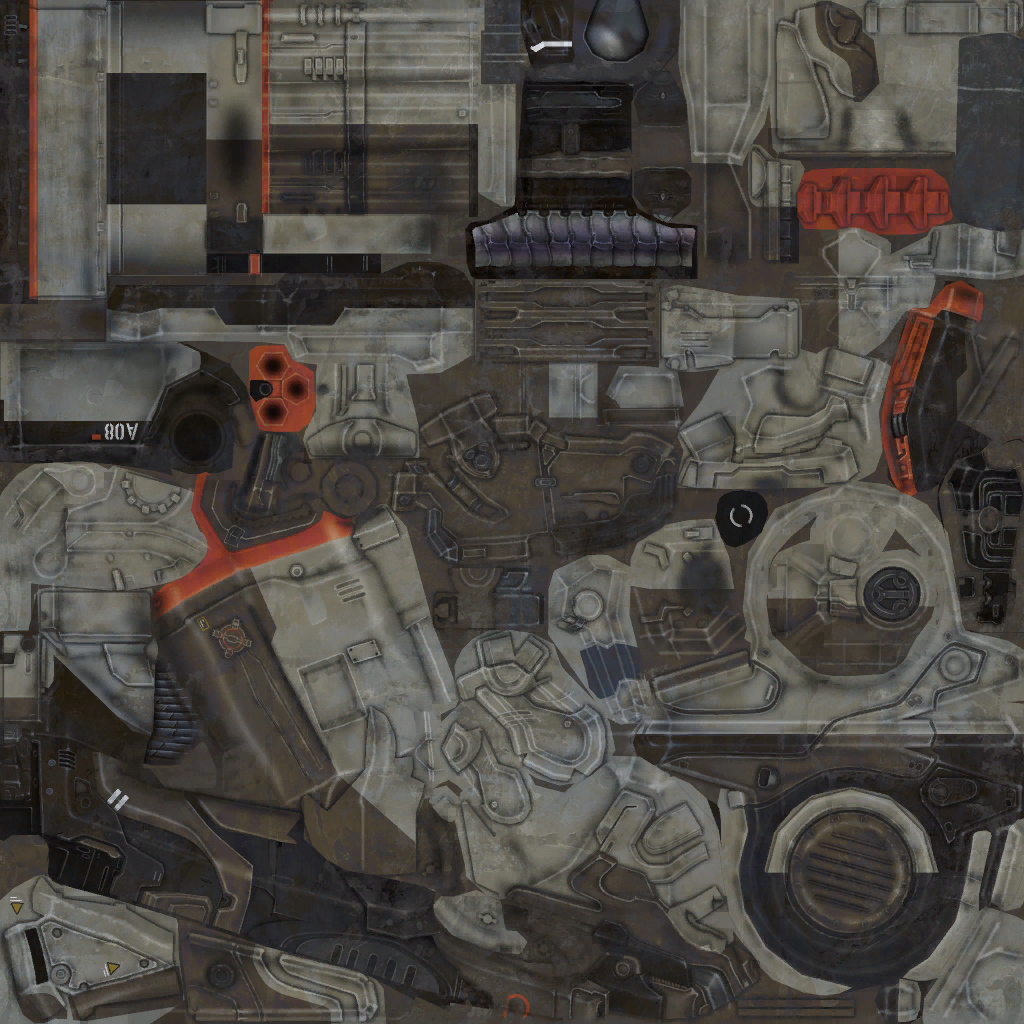
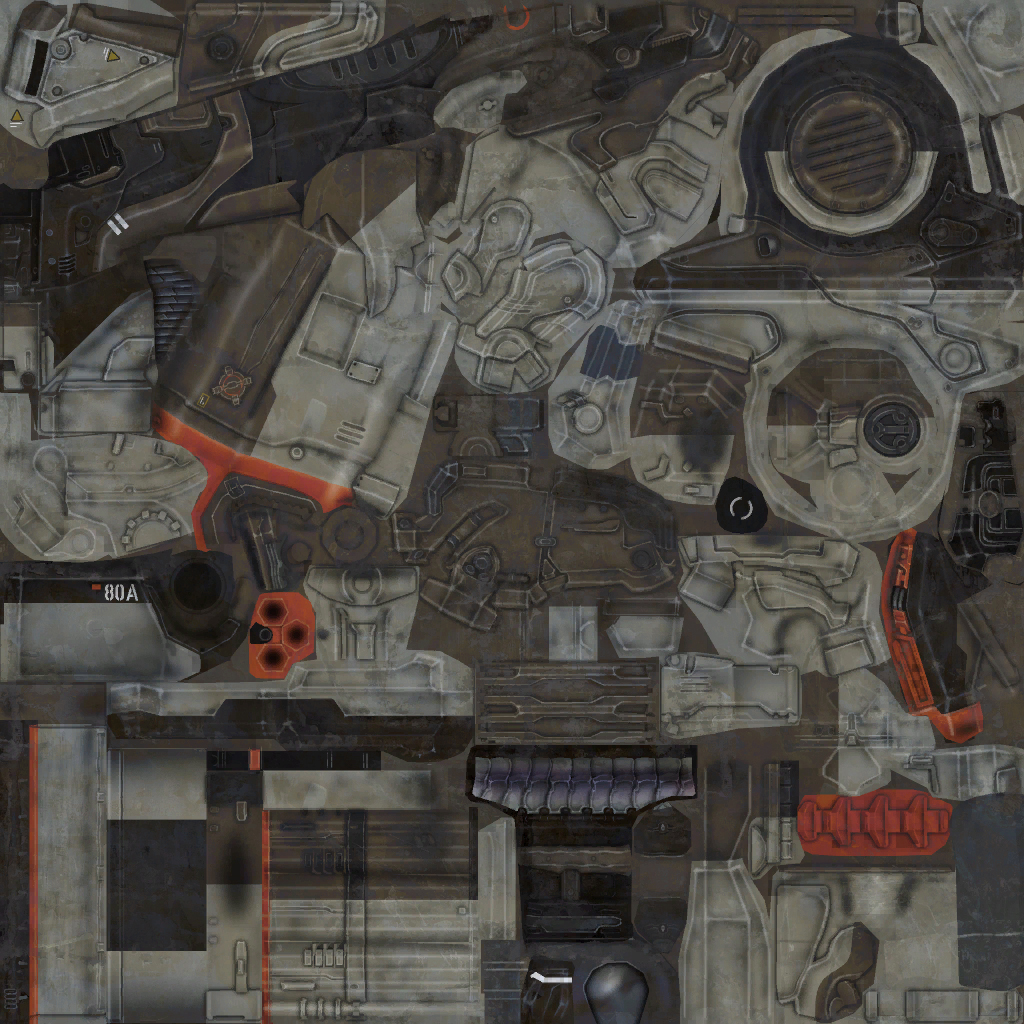
增加uv方向判断

diff --git a/Engine/Engine/DTextureRes10.cpp b/Engine/Engine/DTextureRes10.cpp
@@ -20,6 +20,74 @@ DTextureRes10::DTextureRes10(ID3D10Device * device, WCHAR * filename)
 	m_isSuccess = true;
 }
 
+DTextureRes10::DTextureRes10(ID3D10Device * device, DTextureRes10 * right, DTextureRes10 * left, DTextureRes10 * top, DTextureRes10 * bottom, DTextureRes10 * front, DTextureRes10 * back)
+{
+	m_device = device;
+
+	m_isSuccess = false;
+
+	ID3D10Resource* srcTex[6];
+
+	right->m_texture->GetResource(&srcTex[1]);
+	left->m_texture->GetResource(&srcTex[0]);
+	top->m_texture->GetResource(&srcTex[2]);
+	bottom->m_texture->GetResource(&srcTex[3]);
+	front->m_texture->GetResource(&srcTex[4]);
+	back->m_texture->GetResource(&srcTex[5]);
+
+
+	D3D10_TEXTURE2D_DESC texElementDesc;
+	((ID3D10Texture2D*)srcTex[0])->GetDesc(&texElementDesc);
+
+	D3D10_TEXTURE2D_DESC texArrayDesc;
+	texArrayDesc.Width = texElementDesc.Width;
+	texArrayDesc.Height = texElementDesc.Height;
+	texArrayDesc.MipLevels = texElementDesc.MipLevels;
+	texArrayDesc.ArraySize = 6;
+	texArrayDesc.Format = texElementDesc.Format;
+	texArrayDesc.SampleDesc.Count = 1;
+	texArrayDesc.SampleDesc.Quality = 0;
+	texArrayDesc.Usage = D3D10_USAGE_DEFAULT;
+	texArrayDesc.BindFlags = D3D10_BIND_SHADER_RESOURCE;
+	texArrayDesc.CPUAccessFlags = 0;
+	texArrayDesc.MiscFlags = D3D10_RESOURCE_MISC_TEXTURECUBE;
+
+	ID3D10Texture2D* texArray = 0;
+	if (FAILED(device->CreateTexture2D(&texArrayDesc, 0, &texArray)))
+		return;
+
+	D3D10_BOX sourceRegion;
+
+	for (UINT x = 0; x < 6; x++)
+	{
+		for (UINT mipLevel = 0; mipLevel < texArrayDesc.MipLevels; mipLevel++)
+		{
+			sourceRegion.left = 0;
+			sourceRegion.right = (texArrayDesc.Width >> mipLevel);
+			sourceRegion.top = 0;
+			sourceRegion.bottom = (texArrayDesc.Height >> mipLevel);
+			sourceRegion.front = 0;
+			sourceRegion.back = 1;
+
+			if (sourceRegion.bottom == 0 || sourceRegion.right == 0)
+				break;
+
+			m_device->CopySubresourceRegion(texArray, D3D10CalcSubresource(mipLevel, x, texArrayDesc.MipLevels), 0, 0, 0, srcTex[x], mipLevel, &sourceRegion);
+		}
+	}
+
+	D3D10_SHADER_RESOURCE_VIEW_DESC viewDesc;
+	viewDesc.Format = texArrayDesc.Format;
+	viewDesc.ViewDimension = D3D11_SRV_DIMENSION_TEXTURECUBE;
+	viewDesc.TextureCube.MostDetailedMip = 0;
+	viewDesc.TextureCube.MipLevels = texArrayDesc.MipLevels;
+
+	if (FAILED(device->CreateShaderResourceView(texArray, &viewDesc, &m_texture)))
+		return;
+
+	m_isSuccess = true;
+}
+
 DTextureRes10::~DTextureRes10()
 {
 }

diff --git a/Engine/Engine/DLight.cpp b/Engine/Engine/DLight.cpp
@@ -201,7 +201,7 @@ void DLight::BeginRenderShadow()
 		m_transform->GetPosition(position);
 		m_transform->GetForward(lookAt);
 
-		DShader::SetGlobalVector3(D_LIGHT_DIR, lookAt);
+		DShader::SetGlobalVector3(D_SC_LIGHT_DIR, lookAt);
 
 		lookAt = position + lookAt;
 
@@ -221,7 +221,7 @@ void DLight::BeginRenderShadow()
 	DGraphics::GlMultiMatrix(m_view);
 	DGraphics::GlLoadProjectionMatrix(m_proj);
 
-	DShader::SetGlobalVector4(D_PARAMS_SHADOW, DVector4(1.0f, 0.0f, m_far, 1.0f / m_far));
+	DShader::SetGlobalVector4(D_SC_PARAMS_SHADOW, DVector4(1.0f, 0.0f, m_far, 1.0f / m_far));
 
 	DGraphics::BeginScene(true, false, true, DColor(1,1,1,1.0f), m_shadowMap);
 }
@@ -231,9 +231,9 @@ void DLight::EndRenderShadow()
 	DGraphics::EndScene(m_shadowMap);
 	DGraphics::GlPopMatrix();
 
-	DShader::SetGlobalTexture(D_TEXTURE_SHADOW, m_shadowMap);
-	DShader::SetGlobalMatrix(D_MATRIX_SHADOW_V, m_view);
-	DShader::SetGlobalMatrix(D_MATRIX_SHADOW_P, m_proj);
+	DShader::SetGlobalTexture(D_SC_TEXTURE_SHADOW, m_shadowMap);
+	DShader::SetGlobalMatrix(D_SC_MATRIX_SHADOW_V, m_view);
+	DShader::SetGlobalMatrix(D_SC_MATRIX_SHADOW_P, m_proj);
 }
 
 //void DLight::GetCameraBounds(DCamera * cam, DVector3 * outCenter, DVector3 * outSize)

diff --git a/Engine/Engine/DShaderConstant.h b/Engine/Engine/DShaderConstant.h
@@ -1,17 +1,19 @@
-#pragma once
+#pragma once
 
-#define D_MATRIX_M         "g_engineWorldMatrix"
-#define D_MATRIX_V         "g_engineViewMatrix"
-#define D_MATRIX_P         "g_engineProjectionMatrix"
+#define D_SC_MATRIX_M         "g_engineWorldMatrix"
+#define D_SC_MATRIX_V         "g_engineViewMatrix"
+#define D_SC_MATRIX_P         "g_engineProjectionMatrix"
 
-#define D_MATRIX_SHADOW_V  "g_shadowView"
-#define D_MATRIX_SHADOW_P  "g_shadowProj"
-#define D_PARAMS_SHADOW    "g_shadowParams"
+#define D_SC_MATRIX_SHADOW_V  "g_engineShadowView"
+#define D_SC_MATRIX_SHADOW_P  "g_engineShadowProj"
+#define D_SC_PARAMS_SHADOW    "g_engineShadowParams"
 
-#define D_LIGHT_DIR        "g_engineLightDir"
-#define D_LIGHT_COLOR      "g_engineLightColor"
-#define D_CAMERA_POS       "g_engineCameraPos"
+#define D_SC_LIGHT_DIR        "g_engineLightDir"
+#define D_SC_LIGHT_COLOR      "g_engineLightColor"
+#define D_SC_CAMERA_POS       "g_engineCameraPos"
 
-#define D_TEXTURE_SHADOW   "g_shadowMap"
+#define D_SC_TEXTURE_SHADOW   "g_shadowMap"
 
-#define D_TEXTURE_SCREEN   "screenTexture"
+#define D_SC_TIME             "g_engineTime"
+
+#define D_SC_TEXTURE_SCREEN   "screenTexture"

diff --git a/Engine/Engine/DGraphics.cpp b/Engine/Engine/DGraphics.cpp
@@ -288,9 +288,9 @@ void DGraphics::DrawGeometry(DGeometry * geometry, const DMatrix4x4 & matrix, DM
 
 	DMatrix4x4 world = matrix;
 
-	material->SetMatrix(D_MATRIX_M, world);
-	material->SetMatrix(D_MATRIX_V, view);
-	material->SetMatrix(D_MATRIX_P, proj);
+	material->SetMatrix(D_SC_MATRIX_M, world);
+	material->SetMatrix(D_SC_MATRIX_V, view);
+	material->SetMatrix(D_SC_MATRIX_P, proj);
 
 	int passcount = material->GetPassCount();
 	int i;
@@ -330,10 +330,10 @@ void DGraphics::DrawTexture(DTexture * texture, DMaterial * material)
 	DSystem::GetGraphicsMgr()->GetGLCore()->GetResolution(screenWidth, screenHeight);
 	DMatrix4x4::Ortho(&proj, screenWidth, screenHeight, -100.0f, 100.0f);
 
-	material->SetMatrix(D_MATRIX_M, world);
-	material->SetMatrix(D_MATRIX_V, view);
-	material->SetMatrix(D_MATRIX_P, proj);
-	material->SetTexture(D_TEXTURE_SCREEN, texture);
+	material->SetMatrix(D_SC_MATRIX_M, world);
+	material->SetMatrix(D_SC_MATRIX_V, view);
+	material->SetMatrix(D_SC_MATRIX_P, proj);
+	material->SetTexture(D_SC_TEXTURE_SCREEN, texture);
 
 	int passcount = material->GetPassCount();
 	int i;

diff --git a/Engine/Engine/DModelLoader.cpp b/Engine/Engine/DModelLoader.cpp
@@ -1,5 +1,6 @@
 #include "DModelLoader.h"
 #include "DMath.h"
+#include "DSystem.h"
 #include <string>
 #include <vector>
 #include <map>
@@ -56,7 +57,11 @@ bool DModelLoader::LoadObj(const char * file, DGeometryBufferDesc* desc)
 			{
 				ifile >> v[0] >> v[1] >> v[2];
 				uvs.push_back(v[0]);
-				uvs.push_back(v[1]);
+				bool uvstartsAtTop = DSystem::GetGraphicsMgr()->GetGLCore()->IsUVStartsAtTop();
+				if (uvstartsAtTop)
+					uvs.push_back(1.0f - v[1]);
+				else
+					uvs.push_back(v[1]);
 			}
 			if (input == 'n')
 			{
@@ -258,7 +263,11 @@ bool DModelLoader::CreatePlane(DGeometryBufferDesc* desc)
 			desc->vertices[index * 3 + 2] = z;
 
 			desc->uvs[index * 2] = u;
-			desc->uvs[index * 2 + 1] = v;
+			bool uvstartsAtTop = DSystem::GetGraphicsMgr()->GetGLCore()->IsUVStartsAtTop();
+			if(uvstartsAtTop)
+				desc->uvs[index * 2 + 1] = 1.0f - v;
+			else
+				desc->uvs[index * 2 + 1] = v;
 
 			desc->normals[index * 3] = 0;
 			desc->normals[index * 3 + 1] = 1.0f;

diff --git a/Engine/Game/EmptyScene.cpp b/Engine/Game/EmptyScene.cpp
@@ -22,7 +22,7 @@ void EmptyScene::OnLoad()
 	transform->SetEuler(33.346f, -41.563f, 0.0f);
 	transform->SetPosition(3.975387f, 2.588932f, -3.703708f);
 
-	DMaterial* colmat = DRes::Load<DMaterial>(DEFAULT_GROUP, CUBEMAP_MAT);
+	DMaterial* colmat = DRes::Load<DMaterial>(DEFAULT_GROUP, PLANE_MAT);
 	DGeometry* obj = DRes::Load<DGeometry>(DEFAULT_GROUP, PLANE_MESH);
 	//DGeometry* obj = DGeometry::Create(DGeometry_Sphere);
 	//DGeometry* obj = DGeometry::Create(DGeometry_Plane);
@@ -46,7 +46,11 @@ void EmptyScene::OnUnLoad()
 void EmptyScene::OnUpdate()
 {
 
-
+	if (DInput::IsKeyDown(0x10))
+	{
+		DTexture2D* tex = DRes::Load<DTexture2D>(0, 2003);
+		tex->SetWrapMode(DWrapMode_Repeat);
+	}
 	if (DInput::IsMousePress(0) && !DGUI::IsGUIActive())
 	{
 		int dtx, dty;

diff --git a/Engine/Engine/D3D10Core.cpp b/Engine/Engine/D3D10Core.cpp
@@ -430,9 +430,9 @@ ITextureRes * D3D10Core::CreateTextureRes(WCHAR* filename)
 	return new DTextureRes10(m_device, filename);;
 }
 
-ITextureRes * D3D10Core::CreateCubeMapRes(ITextureRes *, ITextureRes *, ITextureRes *, ITextureRes *, ITextureRes *, ITextureRes *)
+ITextureRes * D3D10Core::CreateCubeMapRes(ITextureRes * right, ITextureRes * left, ITextureRes * top, ITextureRes * bottom, ITextureRes * front, ITextureRes * back)
 {
-	return nullptr;
+	return new DTextureRes10(m_device, (DTextureRes10*)right, (DTextureRes10*)left, (DTextureRes10*)top, (DTextureRes10*)bottom, (DTextureRes10*)front, (DTextureRes10*)back);
 }
 
 IRenderTextureViewRes * D3D10Core::CreateRenderTextureRes(float width, float height)

diff --git a/Engine/Engine/DTextureRes9.cpp b/Engine/Engine/DTextureRes9.cpp
@@ -45,6 +45,23 @@ void DTextureRes9::Release()
 	m_device = NULL;
 }
 
+DCubeTextureRes9::DCubeTextureRes9(LPDIRECT3DDEVICE9 device, DTextureRes9 * right, DTextureRes9 * left, DTextureRes9 * top, DTextureRes9 * bottom, DTextureRes9 * front, DTextureRes9 * back)
+{
+	LPDIRECT3DCUBETEXTURE9 cubemap;
+	m_isSuccess = false;
+
+	m_device = device;
+
+	//HRESULT result = D3DXCreateCubeTexture(device, 256, 0, 0, 0, 0, &cubemap);
+	/*if (FAILED(result))
+	{
+		return;
+	}*/
+	//cubemap->
+
+	//m_isSuccess = true;
+}
+
 DRenderTextureViewRes9::DRenderTextureViewRes9(LPDIRECT3DDEVICE9 device, float width, float height)
 {
 	HRESULT hr;

diff --git a/Engine/Engine/DTextureResOpGL.cpp b/Engine/Engine/DTextureResOpGL.cpp
@@ -13,10 +13,10 @@ struct TargaHeader
 	unsigned char data2;
 };
 
-DTextureResOpGL::DTextureResOpGL(WCHAR * filename)
+DTextureResOpGL::DTextureResOpGL(WCHAR * filename, DWrapMode wrapMode)
 {
-	//m_textureId = LoadBMP(filename);
 	LoadTGA(filename, m_textureId);
+	m_wrapMode = wrapMode;
 }
 
 DTextureResOpGL::~DTextureResOpGL()
@@ -36,8 +36,12 @@ void DTextureResOpGL::Apply(UINT location)
 	}
 }
 
-void DTextureResOpGL::ApplyWrapMode(UINT, DWrapMode)
+void DTextureResOpGL::ApplyWrapMode(UINT location, DWrapMode wrapMode)
 {
+	if (m_wrapMode != wrapMode)
+	{
+		m_wrapMode = wrapMode;
+	}
 }
 
 void DTextureResOpGL::Release()

diff --git a/Engine/Engine/DGLDrawer.cpp b/Engine/Engine/DGLDrawer.cpp
@@ -287,9 +287,9 @@ void DGLDrawerProcess::ProcessDraw(DMatrix4x4& modelview, DMatrix4x4& projection
 	DMatrix4x4 world;
 	DMatrix4x4::Identity(&world);
 
-	DShader::SetGlobalMatrix(D_MATRIX_M, world);
-	DShader::SetGlobalMatrix(D_MATRIX_V, modelview);
-	DShader::SetGlobalMatrix(D_MATRIX_P, projection);
+	DShader::SetGlobalMatrix(D_SC_MATRIX_M, world);
+	DShader::SetGlobalMatrix(D_SC_MATRIX_V, modelview);
+	DShader::SetGlobalMatrix(D_SC_MATRIX_P, projection);
 
 	DGraphics::ApplyActiveMaterial();
 	m_geometryRes->DrawPrimitive(DGeometryTopology_LineList);

diff --git a/Engine/Engine/DCamera.cpp b/Engine/Engine/DCamera.cpp
@@ -521,12 +521,12 @@ void DCamera::RefreshCameraDirParam()
 	{
 		DVector3 forward;
 		m_transform->GetForward(forward);
-		DShader::SetGlobalVector4(D_CAMERA_POS, DVector4(forward.x, forward.y, forward.z, 0.0f));
+		DShader::SetGlobalVector4(D_SC_CAMERA_POS, DVector4(forward.x, forward.y, forward.z, 0.0f));
 	}
 	else
 	{
 		DVector3 pos;
 		m_transform->GetPosition(pos);
-		DShader::SetGlobalVector4(D_CAMERA_POS, DVector4(pos.x, pos.y, pos.z, 1.0f));
+		DShader::SetGlobalVector4(D_SC_CAMERA_POS, DVector4(pos.x, pos.y, pos.z, 1.0f));
 	}
 }
